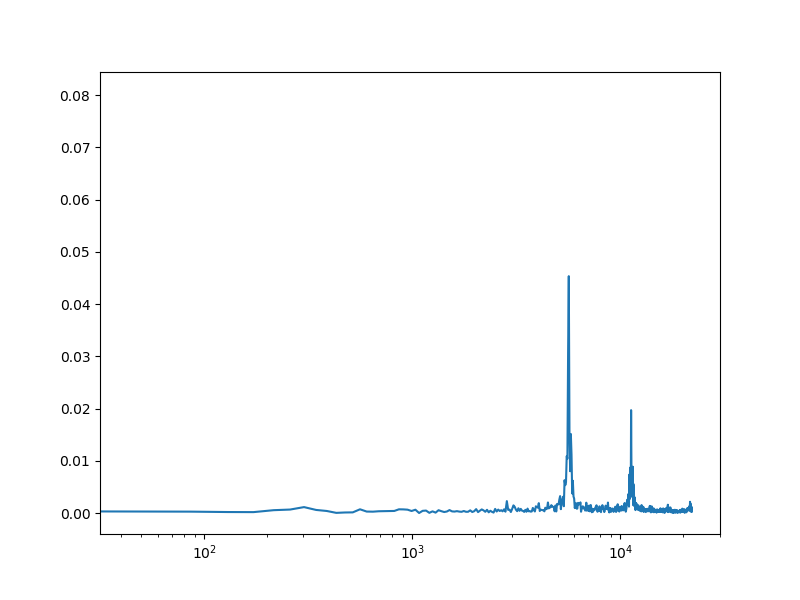
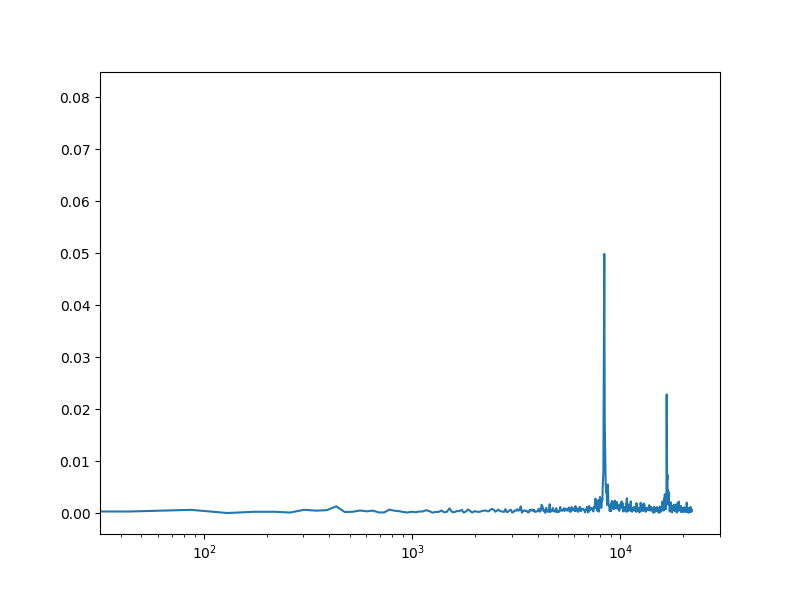
Audio Test 5

diff --git a/AudioInputTest.py b/AudioInputTest.py
@@ -14,8 +14,8 @@ while(x<1):
 	for i in range(0,samples,1):
 		value = ADC.read("AIN0")
 		current.append(value)
-	print(current)
-	time.sleep(1/sampling)	
+		time.sleep(T)
+	print(current)	
 	x = x + 1
 	processed = np.fft.fft(current)
 	print(processed)
